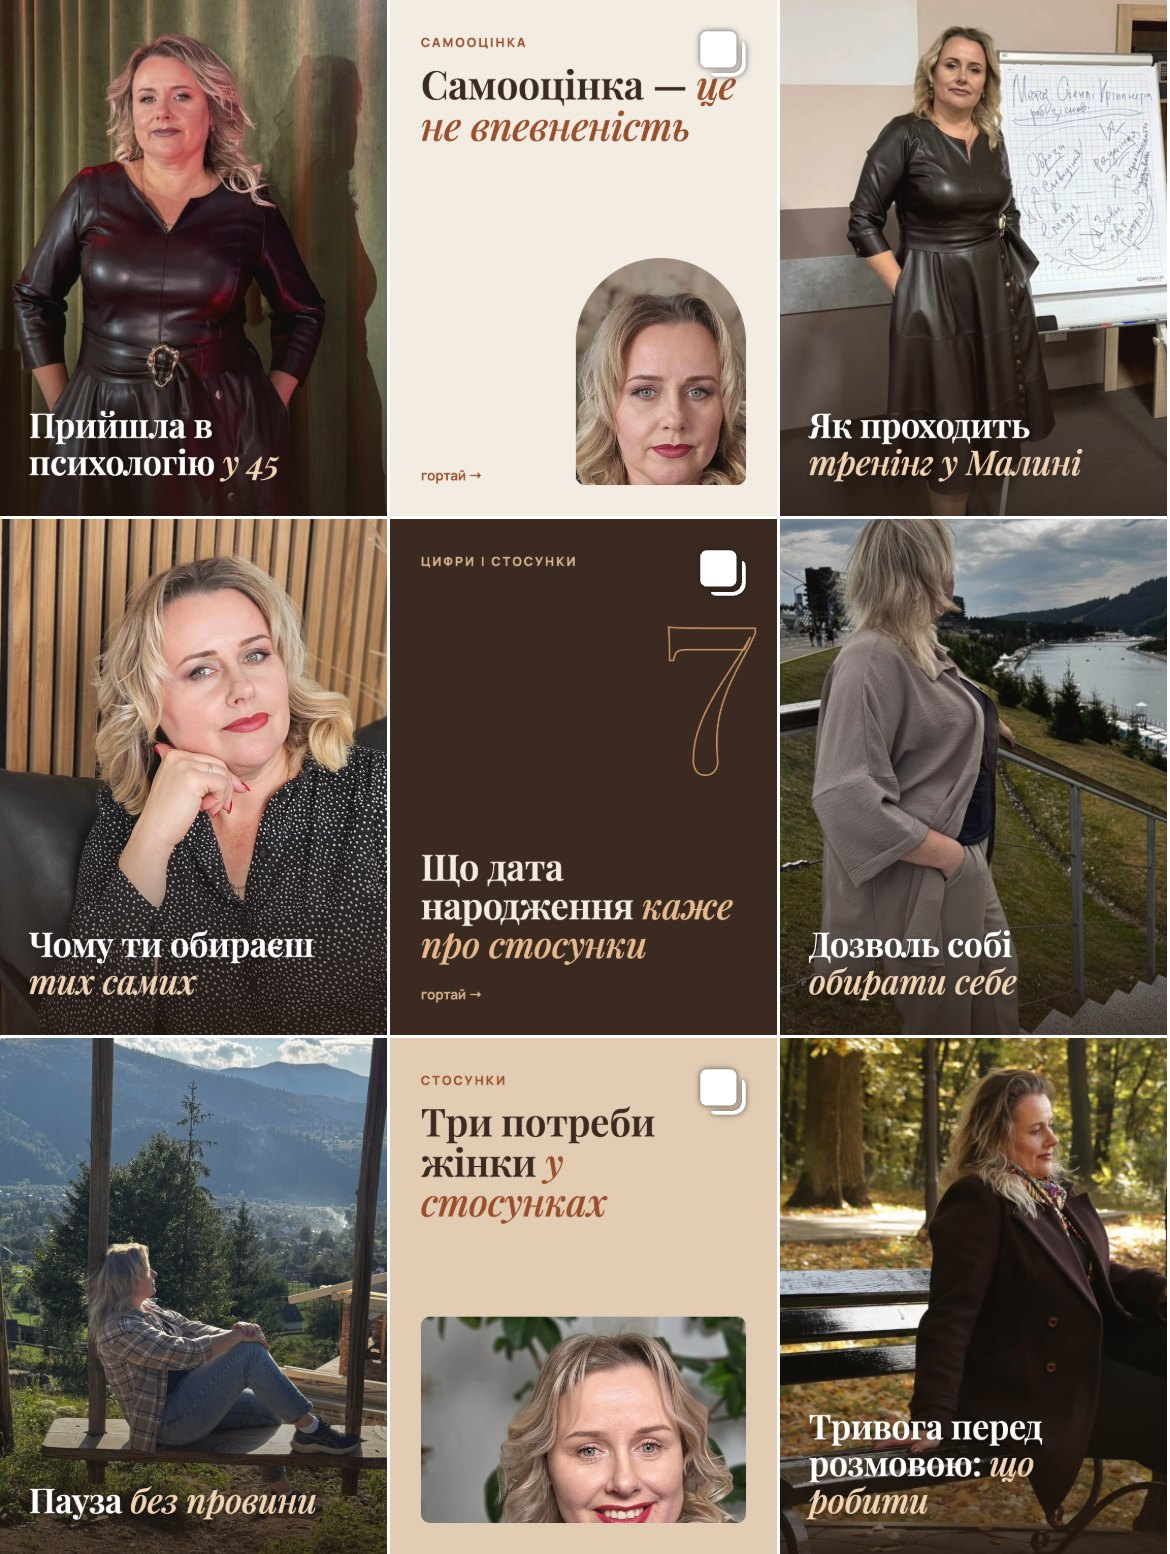
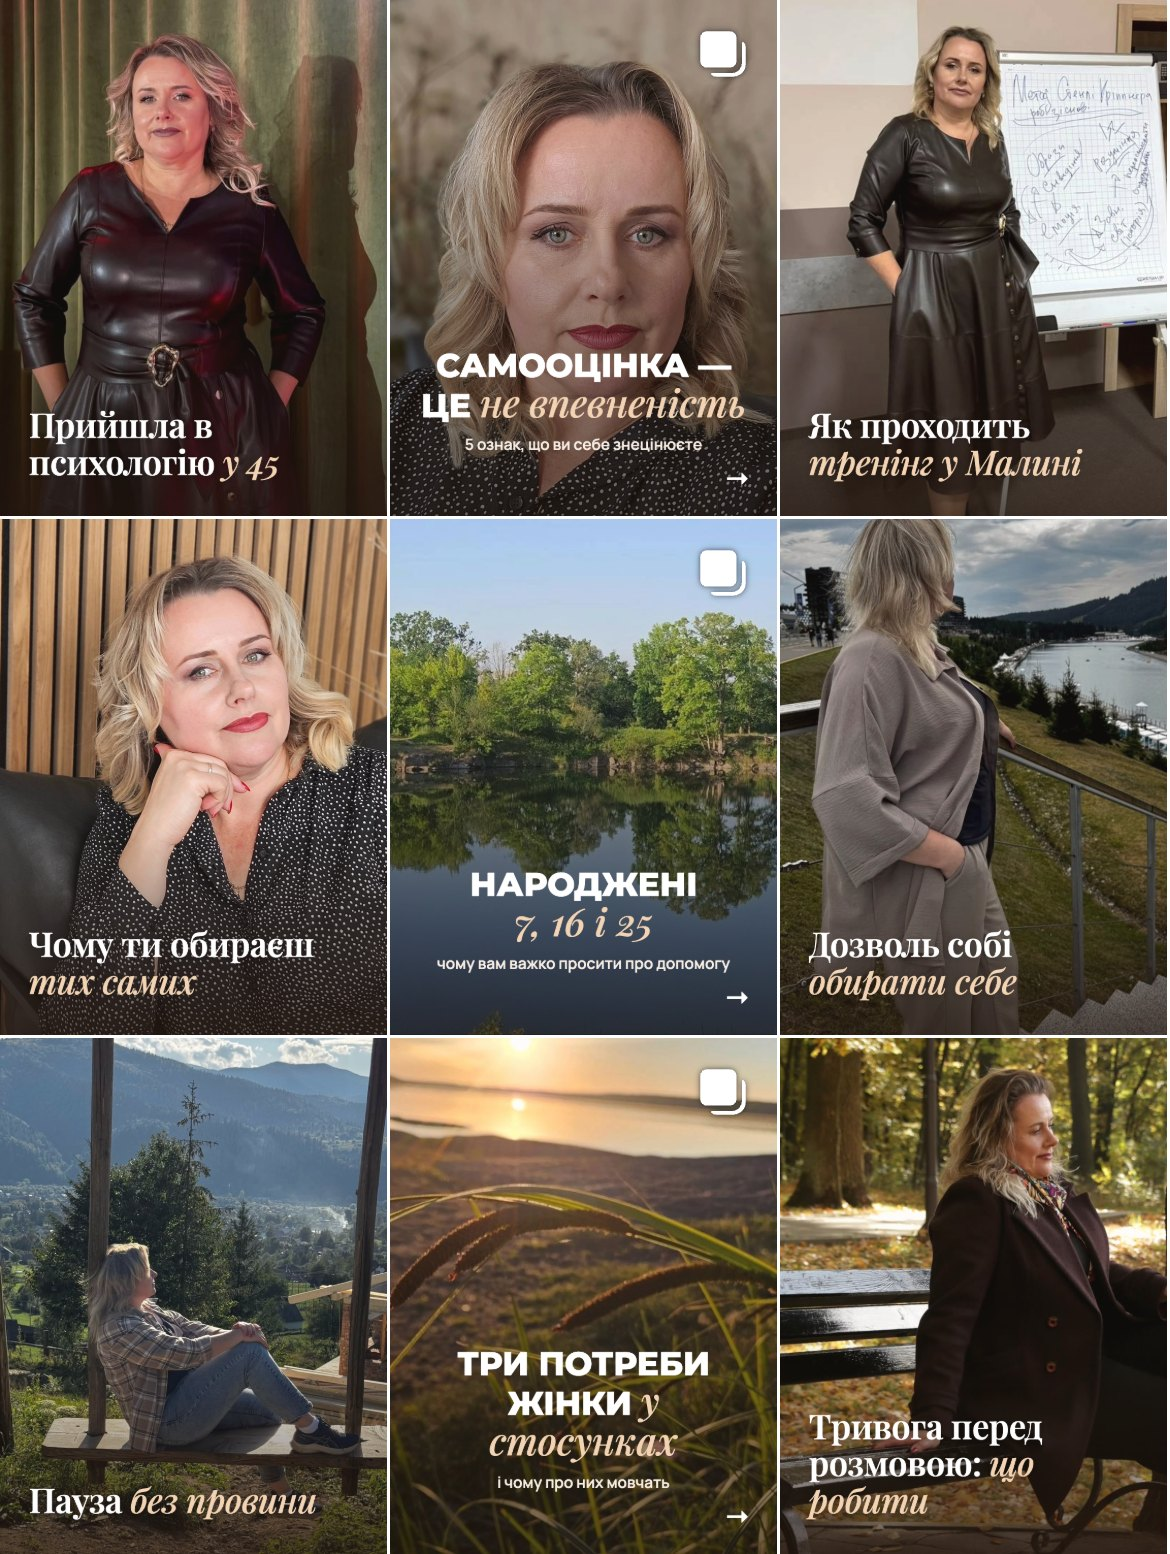
Каруселі й хайлайти за референсами нумерологів

Changed region(s): [[0.3077, 0.0, 0.6769, 1.0]]

diff --git a/index.html b/index.html
@@ -199,7 +199,7 @@ a.shot{border-color:#d6d6d6;box-shadow:0 10px 26px rgba(0,0,0,.10)}
         <figure><figcaption class="lab now">Як зараз</figcaption><a class="shot" href="img/prof_before.jpg" target="_blank"><img src="img/c_hl_now.jpg" alt="Як зараз: Хайлайти по шляху клієнтки" loading="lazy"></a></figure>
         <figure><figcaption class="lab todo">Як варто</figcaption><a class="shot" href="img/prof_after_hl.jpg" target="_blank"><img src="img/c_hl_should.jpg" alt="Як варто: Хайлайти по шляху клієнтки" loading="lazy"></a></figure>
       </div>
-      <p class="note">Зараз один хайлайт. Варто шість, з ваших студійних фото: Про мене, Цінність, Стосунки, Цифри, Тренінги, Відгуки.</p>
+      <p class="note">Зараз один хайлайт. Варто шість живих кадрів без рамок і написів, як у сильних нумерологів: Про мене, Запис, Стосунки, Цифри, Тренінги, Відгуки.</p>
     </div>
     <div class="pair" id="p07">
       <div class="phead"><span class="num">07</span><h3>Стрічка: рілси й каруселі по черзі</h3></div>
@@ -207,7 +207,7 @@ a.shot{border-color:#d6d6d6;box-shadow:0 10px 26px rgba(0,0,0,.10)}
         <figure><figcaption class="lab now">Як зараз</figcaption><a class="shot" href="img/feed_before.jpg" target="_blank"><img src="img/c_feed_now.jpg" alt="Як зараз: Стрічка: рілси й каруселі по черзі" loading="lazy"></a></figure>
         <figure><figcaption class="lab todo">Як варто</figcaption><a class="shot" href="img/feed_after.jpg" target="_blank"><img src="img/c_feed_should.jpg" alt="Як варто: Стрічка: рілси й каруселі по черзі" loading="lazy"></a></figure>
       </div>
-      <p class="note">Психологічні дописи мають медіану 8 вподобайок, особисті 21. Варто: щотижня рілс, карусель, рілс. Рілси на ваших фото, каруселі світлі, з одним шрифтом і палітрою.</p>
+      <p class="note">Психологічні дописи мають медіану 8 вподобайок, особисті 21. Варто: щотижня рілс, карусель, рілс. Обкладинки каруселей як у найсильніших нумерологів: фото на весь кадр, капс і одне слово курсивом, гачок «Народжені 7, 16 і 25».</p>
     </div>
     <div class="pair" id="p08">
       <div class="phead"><span class="num">08</span><h3>Тема на обкладинці рілса</h3></div>
